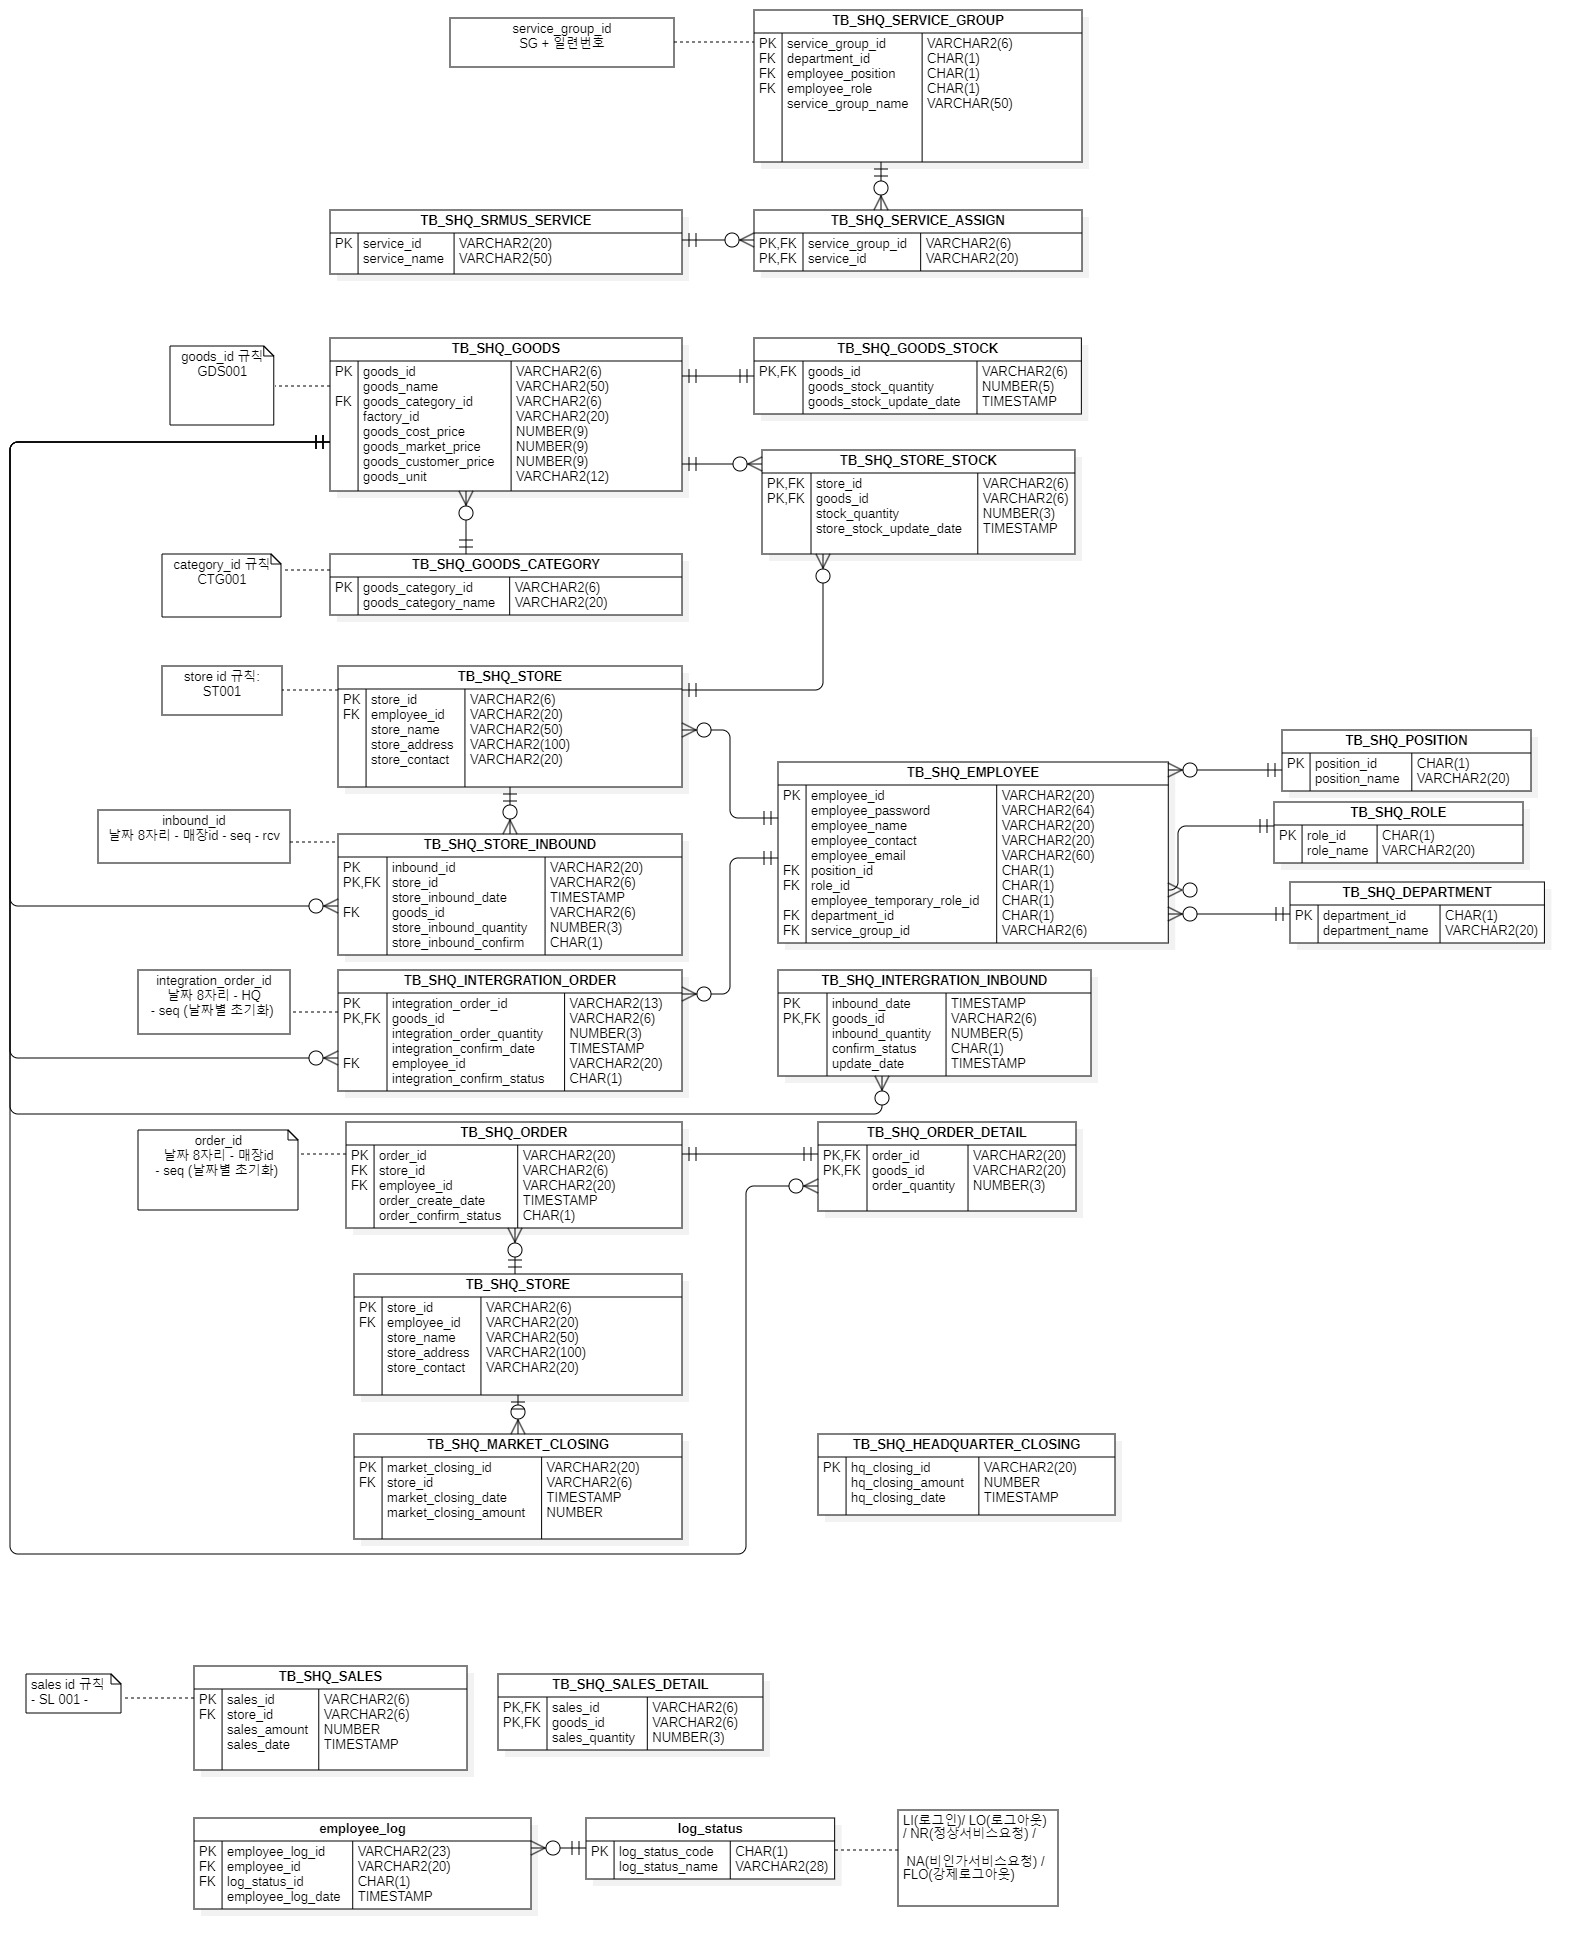
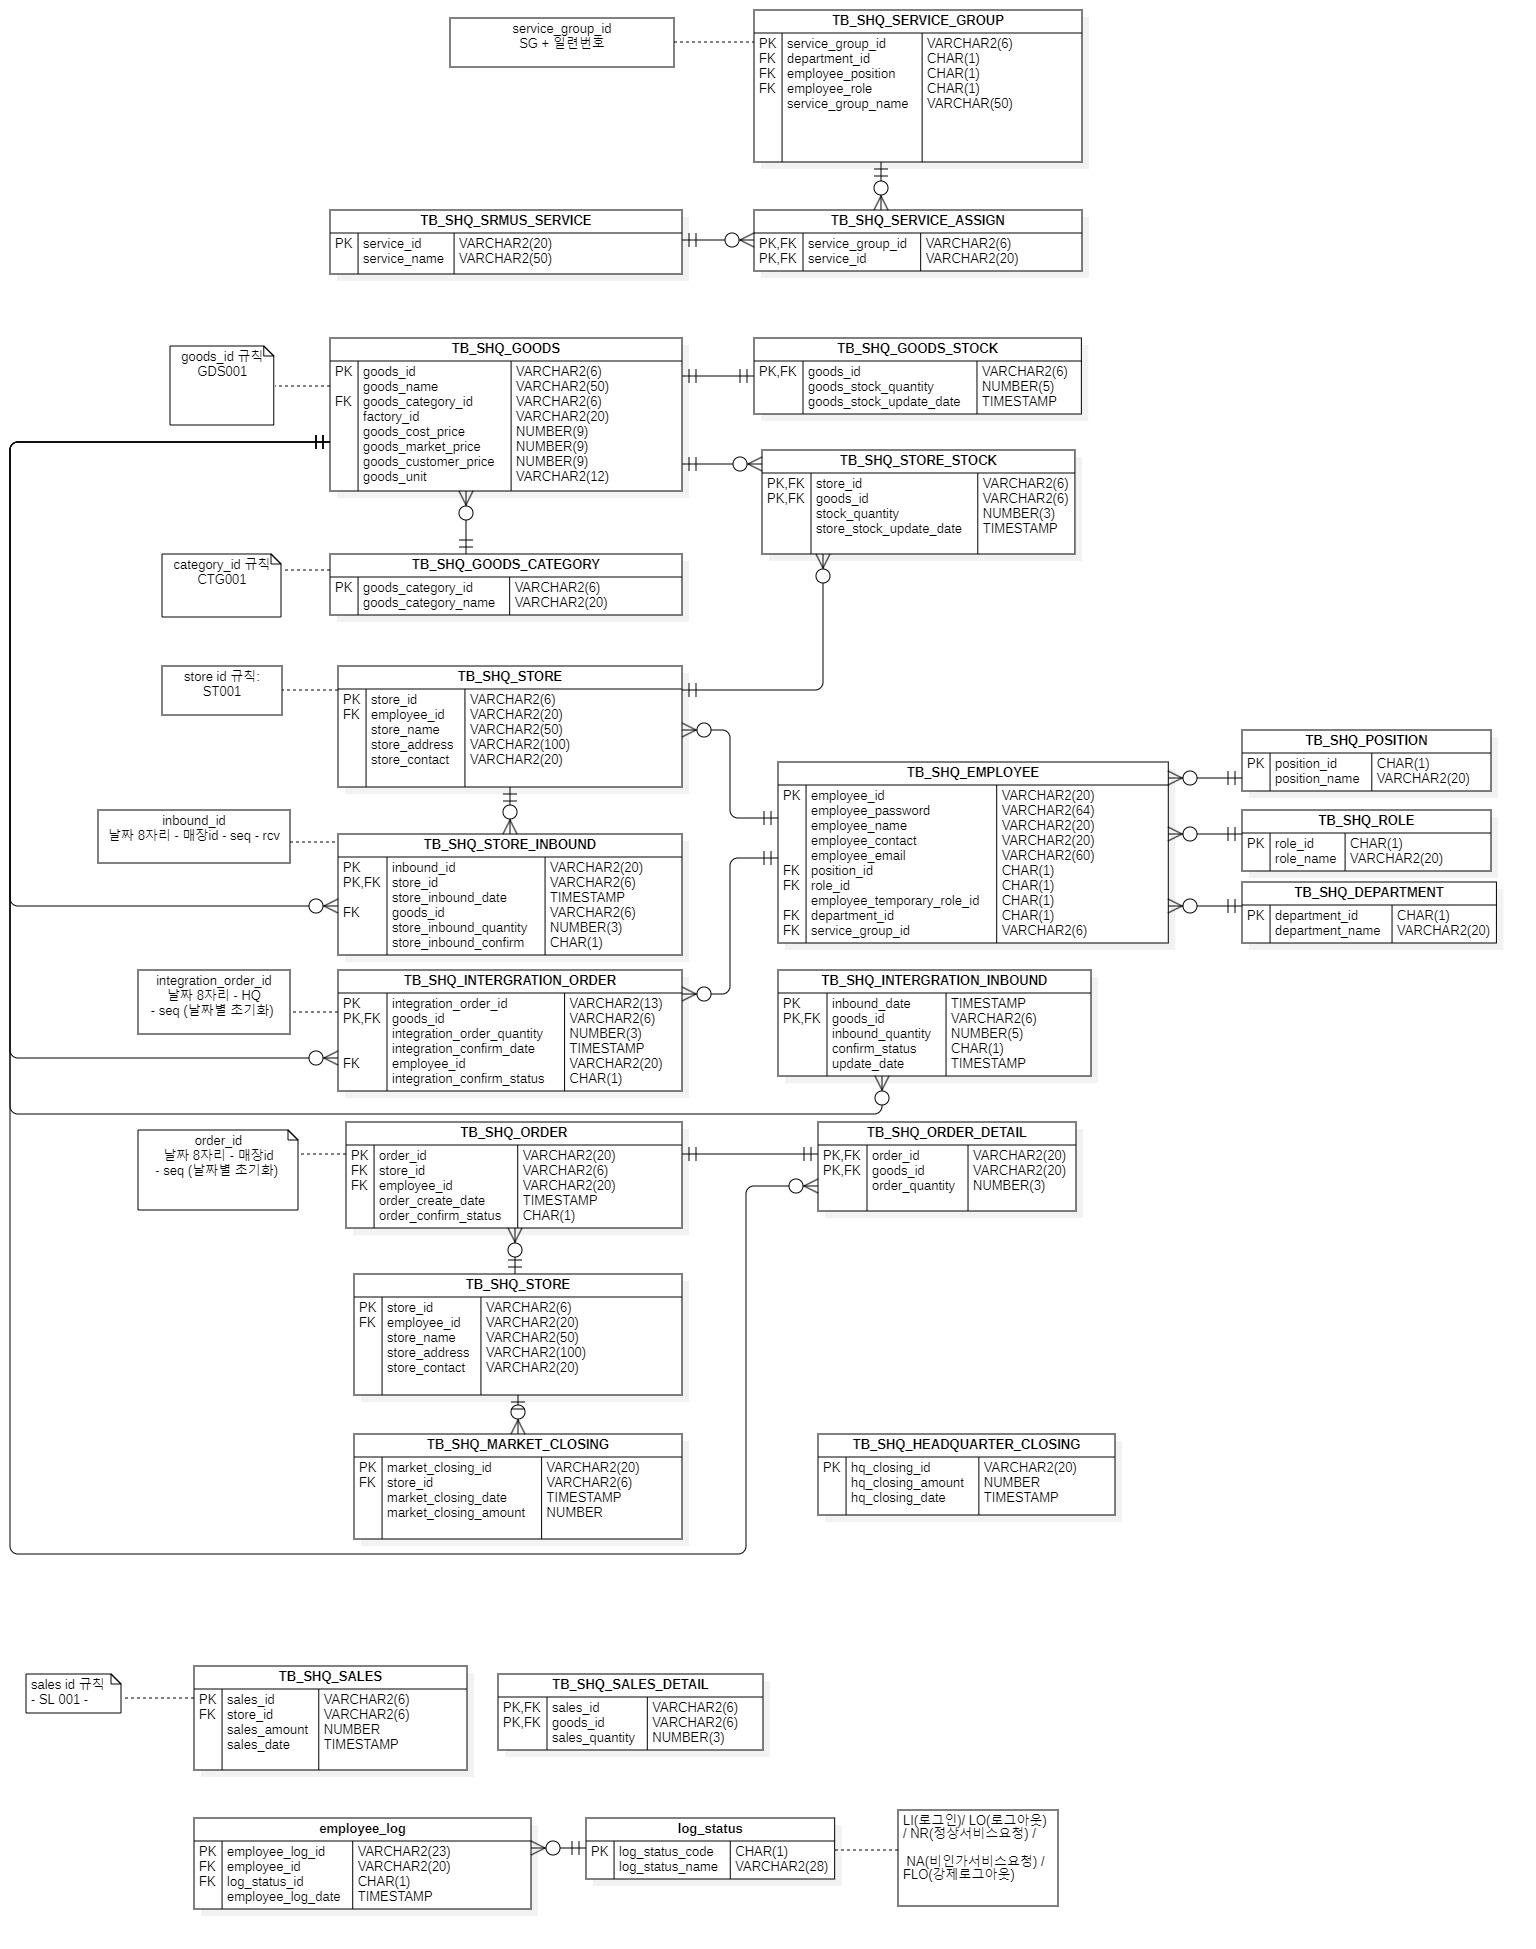
본부 ERD 수정 및 본부 입고 컨트롤러 디버그 코드 삭제

diff --git a/srmus_project/src/main/java/org/kitri/services/sales/in/controller/ShqInbImiWfaController.java b/srmus_project/src/main/java/org/kitri/services/sales/in/controller/ShqInbImiWfaController.java
@@ -32,8 +32,6 @@ public class ShqInbImiWfaController {
 	@PostMapping("/update")
 	public String updatIncomingStocks(Model model,
 									  @ModelAttribute ShqInbImiDto reqDto){
-		System.out.println(reqDto);
-		System.out.println(reqDto.getInboundDate());
 		svc.updateIncomingStocks(reqDto);
 		model.addAttribute("goods", svc.getIncomingInbound());
 		return "sales/in/ShqInbImiWfa";
